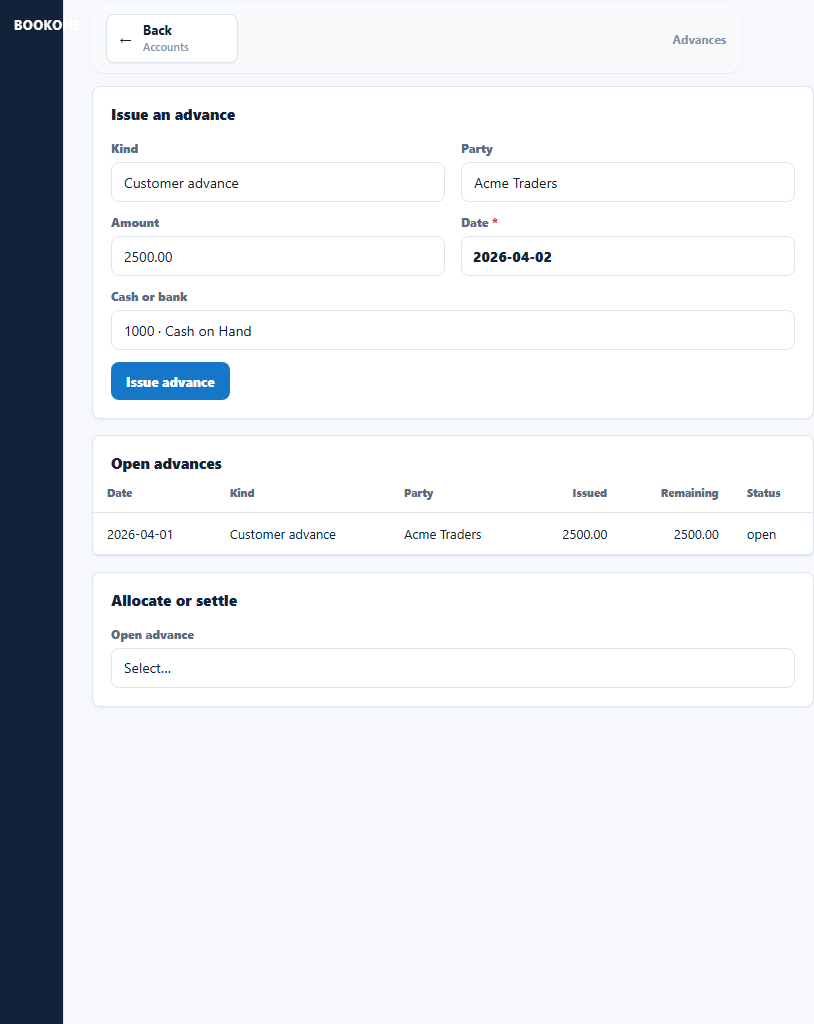
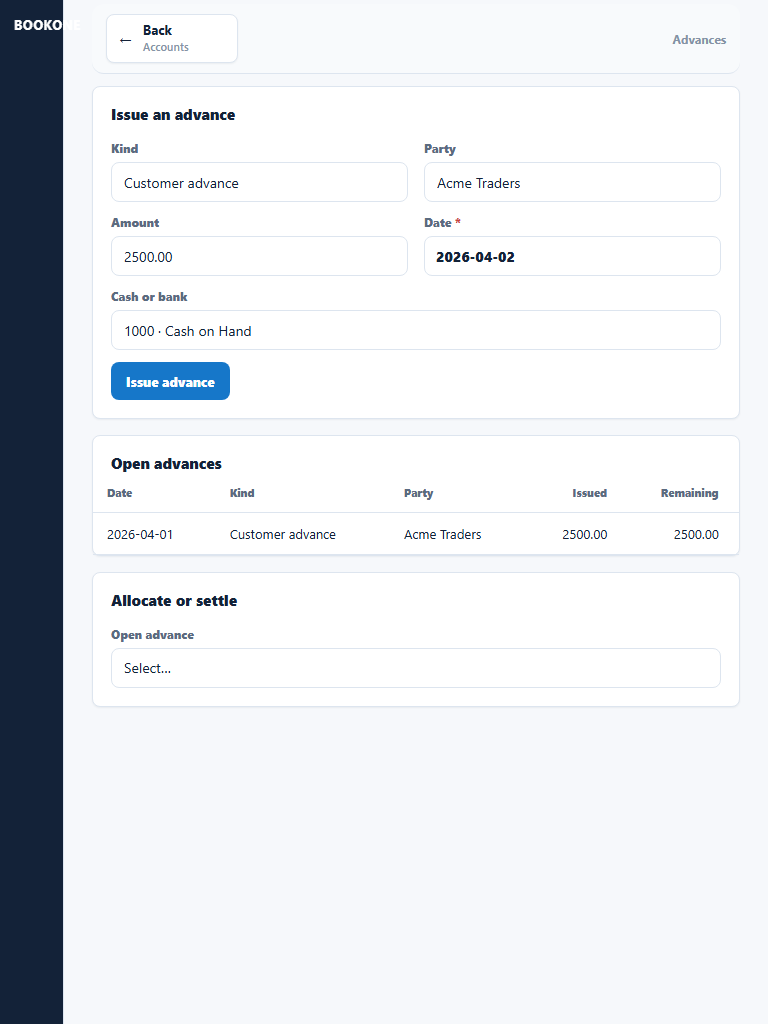
fix: tablet fit for Advances, Modules and Journal; rule book drops phone size (v2.35.1)
Grid children no longer stretch to wide tables (min-width 0), and
Journal rows wrap under 1200px. Rule book rule 10 now checks tablet
768x1024 instead of phone, per the owner.

diff --git a/apps/web/src/app/globals.css b/apps/web/src/app/globals.css
@@ -12217,3 +12217,10 @@ a.party-back-btn[href='/company/details'], a.party-back-btn[href='/journal'] { d
   .cr-filters .cr-search { grid-column: 1 / -1; }
 }
 .cr-filters.is-single { grid-template-columns: minmax(260px, 480px) auto; justify-content: start; }
+.jr-list .journal-audit-row summary { grid-template-columns: minmax(0, 1fr) auto auto auto; }
+@media (max-width: 1200px) {
+  .jr-list .journal-audit-row summary { display: flex; flex-wrap: wrap; align-items: center; column-gap: 12px; row-gap: 6px; }
+  .jr-list .journal-audit-row summary .audit-row-main { flex: 1 1 100%; min-width: 0; }
+}
+/* Grid children must not grow to a wide table's width; the table scrolls in its own wrap (tablet 768). */
+.workspace.ux-page > *, .adv-stack > *, .ux-main > * { min-width: 0; }

diff --git a/docs/changes/CHG-20261128-tablet-fit.md b/docs/changes/CHG-20261128-tablet-fit.md
@@ -1,0 +1,41 @@
+# CHG-20261128-tablet-fit (v2.35.1)
+
+Status: ready for the owner's staging review.
+
+- Author and date: coding agent, 2026-11-28.
+- Pushed directly to `master` (owner-approved).
+- **Owner decision (2026-11-28):** phone sizes are not required; screens must work on a tablet. Rule book rule 10 and the review checklist now use tablet 768×1024 instead of phone 390×844.
+
+## Staging review of v2.35.0
+
+- Control Room Overview, Companies and Access render as designed at 1920.
+- Tablet check: every redesigned page was loaded in a 768×1024 frame on staging, and the page width was measured. There are 18 pages:
+  - Sales, Purchase, Inventory and Rental settings;
+  - Details, Tax, Brands, Locations, Domains, Backup and Jobs;
+  - Journal, Accounts and Advances;
+  - Control Room Overview, Companies, Access and Modules.
+
+## Problems found
+
+| Page | Problem at 768 |
+|---|---|
+| Advances | Scrolled sideways (1018 px). The open-advances table stretched its grid column. |
+| Control Room → Modules | Scrolled sideways (1095 px). The module matrix stretched the page grid. |
+| Journal | Each entry's amount and Balanced badge were cut off on the right. The row grid needs about 666 px. |
+
+## Changes (CSS only)
+
+- `.workspace.ux-page > *`, `.adv-stack > *` and `.ux-main > *` get `min-width: 0`, so wide tables scroll inside their `.table-wrap`. The Advances markup is unchanged (UI-02 gate).
+- Journal rows use flexible columns. Under 1200 px the type, amount and badge wrap below the entry name.
+- **Verified on staging before shipping:** the CSS was injected into 768 px frames.
+  - Advances and Modules measure 768 px wide (no sideways scroll).
+  - The Journal badge's right edge is at 567 px (fully visible).
+
+## Evidence
+
+- UI-02 and DB-01 browser tests: 15 of 15.
+- Typecheck passes.
+
+## Rollback
+
+Revert the commit.

diff --git a/docs/UI_DESIGN_RULEBOOK.md b/docs/UI_DESIGN_RULEBOOK.md
@@ -122,13 +122,13 @@ Use `dl.ux-statement` (or `.bis-sum`) with `is-total` on the result. Each `dt` t
 
 ### 10. Works at three sizes
 
-Check every changed screen at:
+Check every changed screen at the three sizes below. Phone sizes are not required (owner decision, 2026-11-28).
 
 | Size | What must hold |
 |---|---|
 | Desktop 1920×~860 | everything fits; no empty half-screen |
 | Laptop 1366×768 | the work screen does not scroll the page |
-| Phone 390×844 | no sideways scroll; tables turn into stacked cards under 640 px; asides drop below the main column under 1100 px |
+| Tablet 768×1024 | no sideways scroll; asides drop below the main column under 1100 px |
 
 ## Shared layout kit (globals.css "Calm screen kit")
 
@@ -161,7 +161,7 @@ Controls still come from the registry (`SelectField`, `DateField`, `TextField`, 
 - [ ] Empty, finished and error states say what to do next
 - [ ] Nothing posted, published or approved without a person
 - [ ] No browser pop-ups (alert / confirm / prompt); long forms keep Save visible
-- [ ] Checked at 1920, 1366×768 and 390×844; work screens do not page-scroll at 1366×768
+- [ ] Checked at 1920, 1366×768 and tablet 768×1024; work screens do not page-scroll at 1366×768
 - [ ] Registry controls only; test ids and accessible names kept or migrated in the same commit
 
 ## Applying this to legacy screens

diff --git a/docs/PROJECT_STATUS.md b/docs/PROJECT_STATUS.md
@@ -1,3 +1,7 @@
+## 2026-11-28 — Tablet fit: Advances, Modules, Journal; phone size dropped (v2.35.1)
+
+Owner: tablet is the smallest size. Fixed sideways scroll at 768 on Advances and Modules, Journal row clipping. See [CHG-20261128-tablet-fit](changes/CHG-20261128-tablet-fit.md).
+
 ## 2026-11-28 — Calm Control Room: overview, companies, access, health check (v2.35.0)
 
 Plain status and event words, registry filters, overview statement; Accounts head spacing. See [CHG-20261128-calm-control-room](changes/CHG-20261128-calm-control-room.md).

diff --git a/docs/TASK_LOG.md b/docs/TASK_LOG.md
@@ -1,3 +1,7 @@
+## 2026-11-28 — Tablet fit: Advances, Modules, Journal; phone size dropped (v2.35.1)
+
+Owner: tablet is the smallest size. Fixed sideways scroll at 768 on Advances and Modules, Journal row clipping. See [CHG-20261128-tablet-fit](changes/CHG-20261128-tablet-fit.md).
+
 ## 2026-11-28 — Calm Control Room: overview, companies, access, health check (v2.35.0)
 
 Plain status and event words, registry filters, overview statement; Accounts head spacing. See [CHG-20261128-calm-control-room](changes/CHG-20261128-calm-control-room.md).
